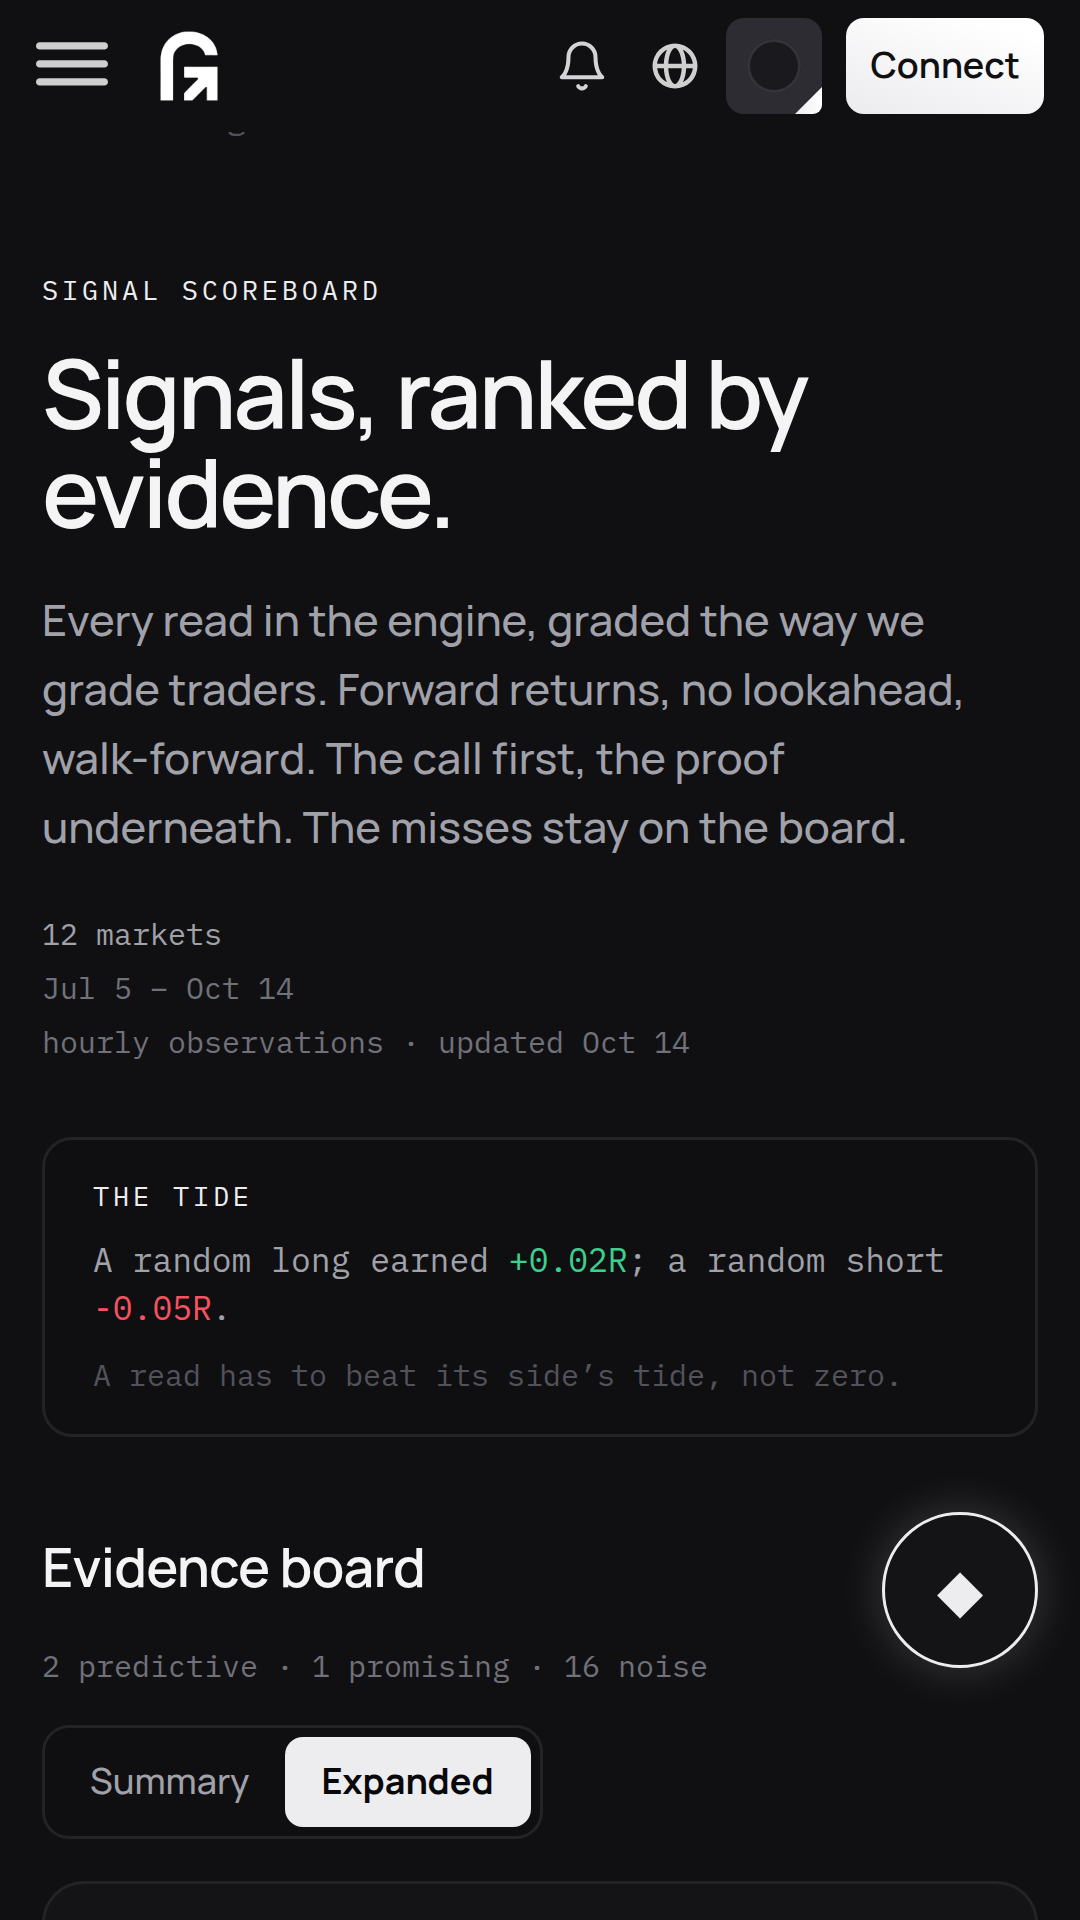
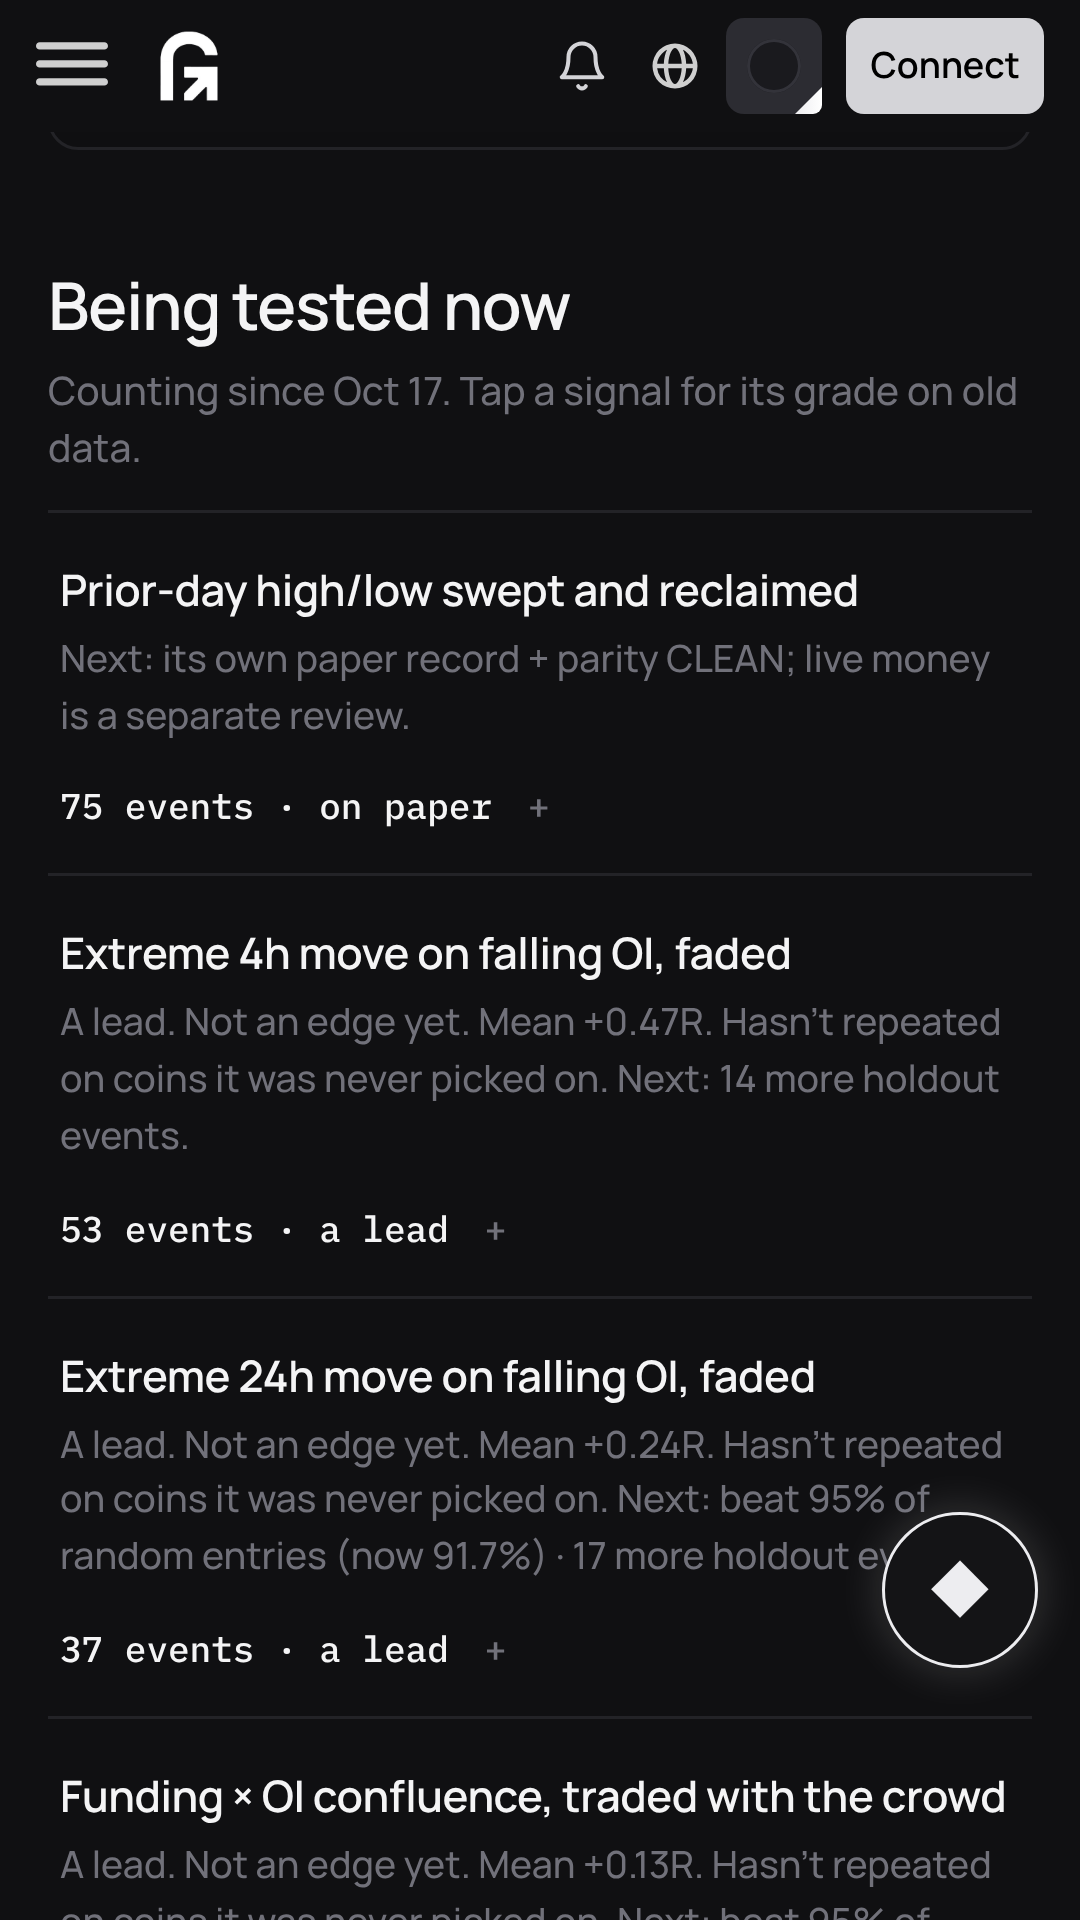
Store screenshots: re-render Proof + board from today's live /proof
Screenshot 2 (Play + dApp Store) still named the Basis x CVD Stack as "the
current lead" and said its read grades PREDICTIVE. That graded exit was
retired 2026-10-26. Screenshot 3 showed a "Signal scoreboard" page that no
longer exists.

Both re-rendered at 1080x1920 from the app with live data from
og.nexustradinglabs.com (2026-11-07):
- 2: /proof's computed headline ("level_reclaim cleared the bar. 51 trades,
  net positive after fees") with "On paper: 1 of 30 trades ... Nothing is
  armed."
- 3: the "Being tested now" board.

The listing notes date the re-render and say to re-render 2 whenever the
/proof headline changes. Assets only; the Play Console upload is borst's.

Claude-Session: https://claude.ai/code/session_01SQfPPoLXyX6QpPyATQpfdj

diff --git a/marketing/solana-dapp-store/listing.md b/marketing/solana-dapp-store/listing.md
@@ -11,12 +11,13 @@ Assets in this folder:
 | `banner-1200x600.png` | Banner | 1200×600 PNG. Source: `graphic.html?w=1200&h=600`. |
 | `feature-graphic-1200x1200.png` | Feature graphic (optional, for featured placement) | 1200×1200 PNG. Source: `graphic.html?w=1200&h=1200`. |
 | `phone-1-feed.png` | Screenshot 1 | 1080×1920. The Feed, real calls. |
-| `phone-2-proof.png` | Screenshot 2 | 1080×1920. The Proof page. |
-| `phone-3-scoreboard.png` | Screenshot 3 | 1080×1920. The signal scoreboard, misses included. |
+| `phone-2-proof.png` | Screenshot 2 | 1080×1920. The Proof page: the headline the scoreboard computes. |
+| `phone-3-scoreboard.png` | Screenshot 3 | 1080×1920. The signal board on /proof: every read being tested and where it stands. |
 | `phone-4-spot.png` | Screenshot 4 | 1080×1920. Spot: Solana majors, cross-chain to SOL. |
 
 The store asks for at least 4 screenshots, each at least 1080px on both sides, same orientation. Screenshots
-1–3 are the Play set (2026-10-14); 4 was rendered 2026-10-23. `graphic.html` loads Manrope from
+1–3 are the Play set (1 from 2026-10-14; 2 and 3 re-rendered 2026-11-07 from the live /proof); 4 was rendered
+2026-10-23. Re-render 2 whenever the /proof headline changes: it is a computed claim. `graphic.html` loads Manrope from
 `public/fonts` and IBM Plex Mono from `node_modules/@fontsource`, so render it from a checkout with
 dependencies installed.
 

diff --git a/marketing/play-store/listing.md b/marketing/play-store/listing.md
@@ -7,10 +7,12 @@ Assets in this folder (all checked against Play's specs):
 | `icon-512.png` | App icon | 512×512, 32-bit PNG. Play rounds the corners itself. |
 | `feature-graphic-1024x500.png` | Feature graphic | 1024×500, 24-bit PNG (no alpha). Source: `feature-graphic.html`. |
 | `phone-1-feed.png` | Phone screenshot 1 | 1080×1920 (9:16). The Feed, real calls. |
-| `phone-2-proof.png` | Phone screenshot 2 | 1080×1920. The Proof page. |
-| `phone-3-scoreboard.png` | Phone screenshot 3 | 1080×1920. The signal scoreboard, misses included. |
+| `phone-2-proof.png` | Phone screenshot 2 | 1080×1920. The Proof page: the headline the scoreboard computes. |
+| `phone-3-scoreboard.png` | Phone screenshot 3 | 1080×1920. The signal board on /proof: every read being tested and where it stands. |
 
-Screenshots were rendered from the app with live data from og.nexustradinglabs.com, 2026-10-14.
+Screenshots were rendered from the app with live data from og.nexustradinglabs.com: 1 on 2026-10-14, 2 and 3
+re-rendered 2026-11-07 (the old 2 named the retired Basis × CVD graded exit as the lead; the old 3 was a page that
+no longer exists). A screenshot is a dated snapshot of a computed claim: re-render 2 when the /proof headline changes.
 
 ## Short description (52 / 80)
 
